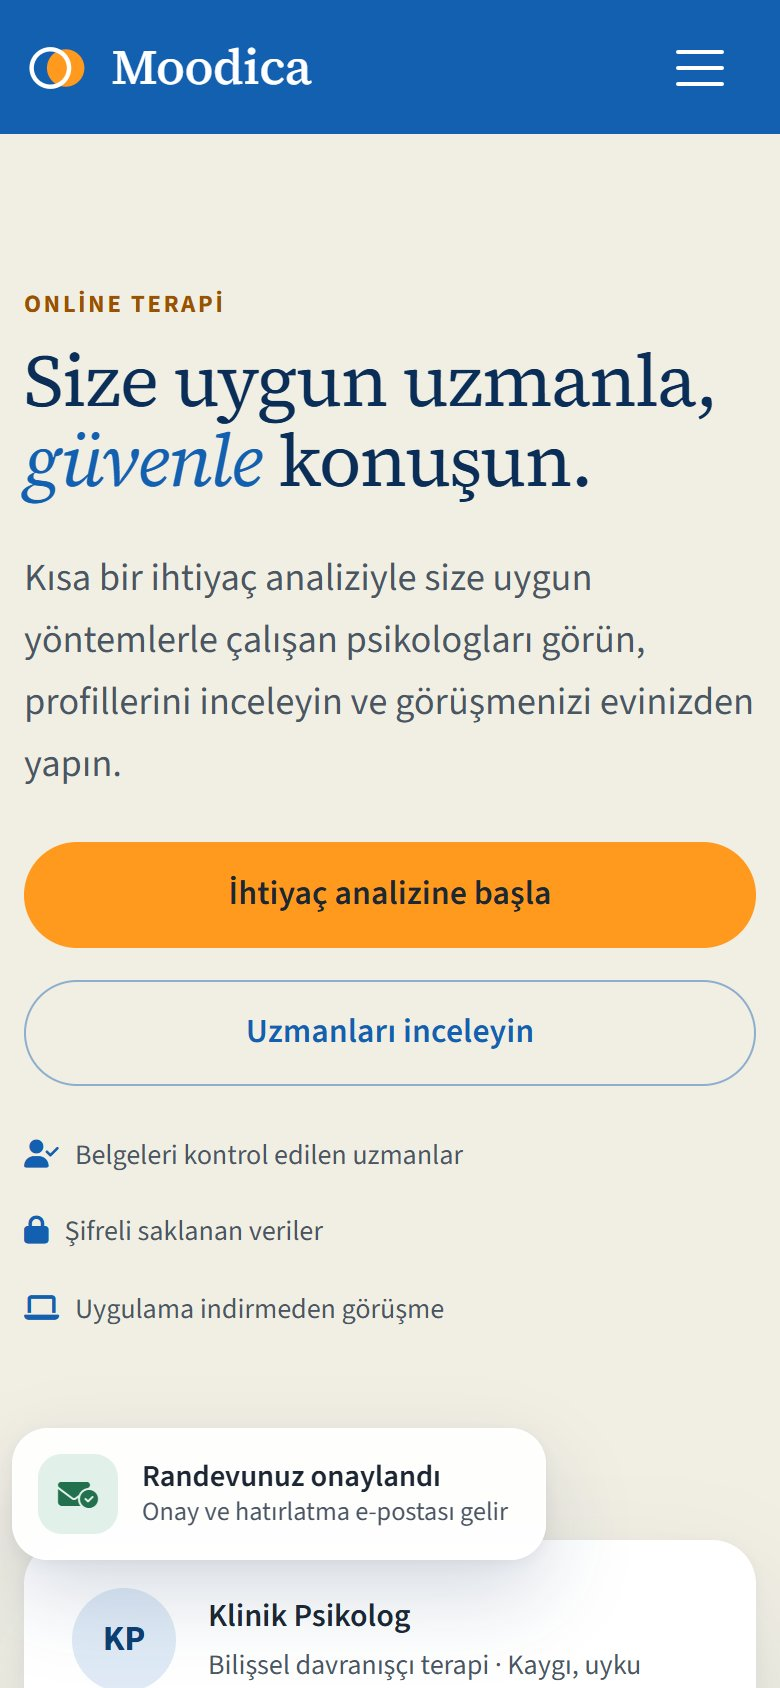
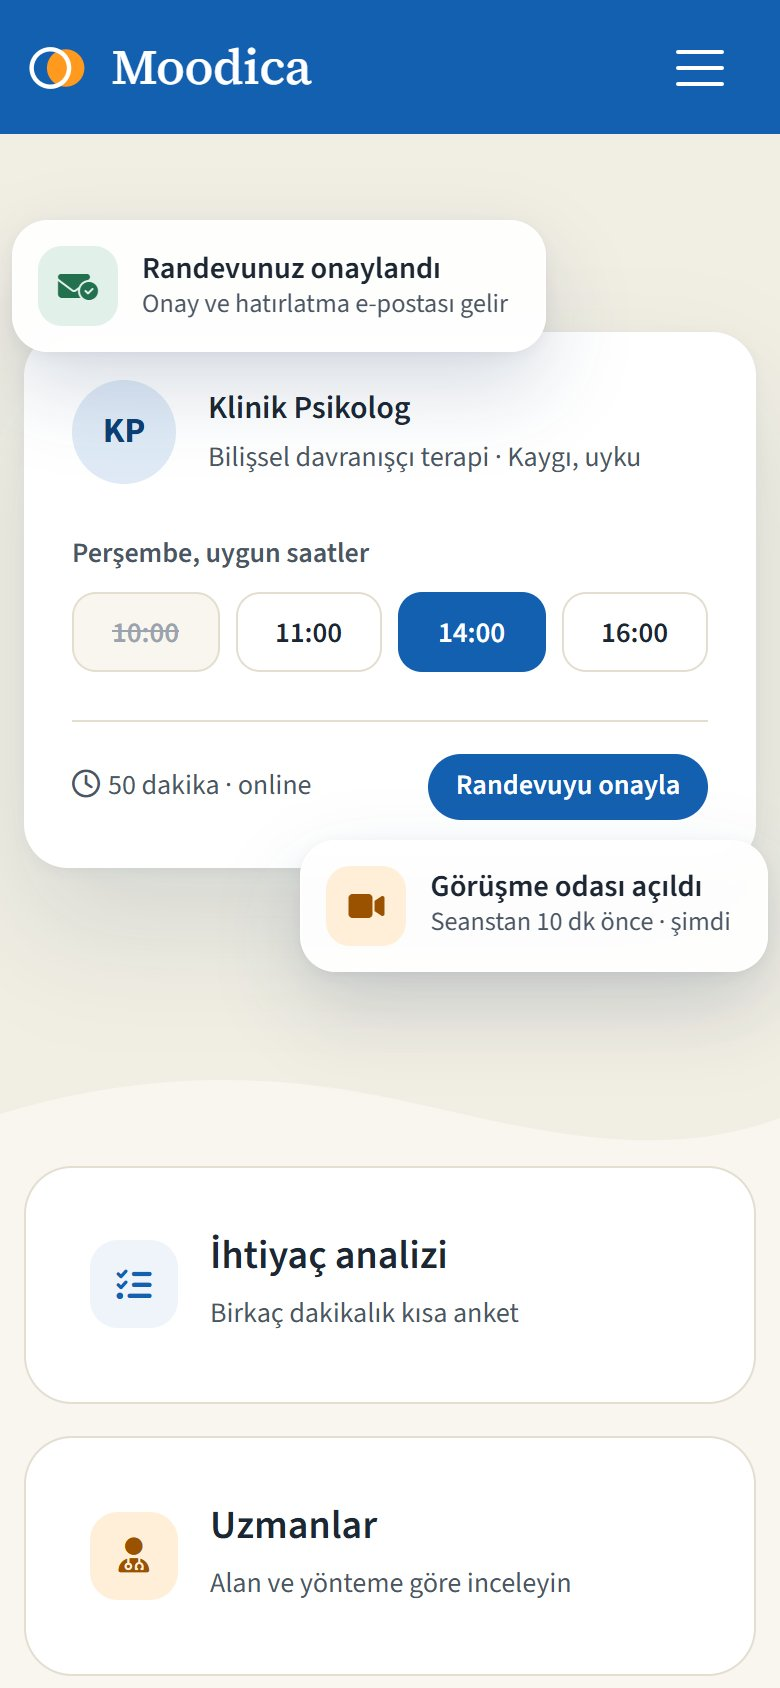
docs: ana README'ye ekran görüntülerini ekle, telefon görüntüsünü bildirim kutularını gösterecek şekilde yenile
Değişen dosyalar:
- docs/ekran/telefon.jpg

Kaynak: 84599cdd396140e2238b8d84b57aac3ee8c58bbb

diff --git a/PROVENANCE.md b/PROVENANCE.md
@@ -4,8 +4,8 @@
 
 Bu depo, private ana projeden `tools/export_public.py` ile otomatik üretilir; elle düzenlenmez.
 
-- Kaynak commit: `422a1527776bd1467138aafeba8e31143d080080`
-- Kaynak commit tarihi: 2026-10-29T15:51:16+03:00
+- Kaynak commit: `84599cdd396140e2238b8d84b57aac3ee8c58bbb`
+- Kaynak commit tarihi: 2026-10-29T16:00:19+03:00
 - Dosya sayısı: 62
 
 | Dosya | SHA-256 |
@@ -69,6 +69,6 @@ Bu depo, private ana projeden `tools/export_public.py` ile otomatik üretilir; e
[7 lines of base64/hex data omitted]
